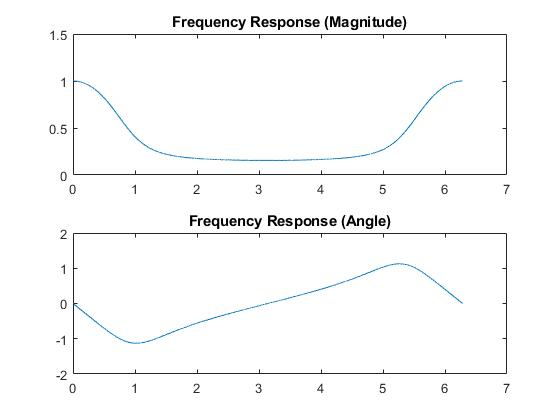
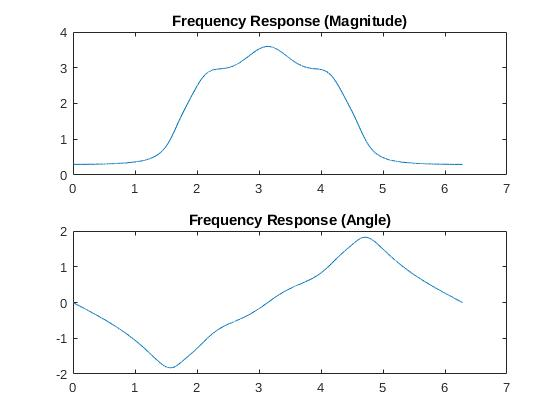
Started P10

diff --git a/p10/p10.m b/p10/p10.m
@@ -5,9 +5,9 @@
 clear
 N = 10000;
 Omega=linspace(0,2*pi,N+1);      %Set up vector of Omega
-z=exp(1i*Omega);                  %Define z on unit circle
+s=exp(1i*Omega);                  %Define z on unit circle
 T=0.001;
-H=(0.297046*z.*(z.^4-0.982666*z.^3+0.712641*z.^2-0.221309*z+0.0553271))./(z.^5-1.89353*z.^4+1.70189*z.^3-0.843832*z.^2+0.2302*z-0.0272007);
+H = (0.6042*s.^4+4.1572*s.^2+6.1591)./(s.^5+3.4630*s.^4+7.1704*s.^3+10.2787*s.^2+8.6926*s+6.159);
        
 figure (1)
 subplot(2,1,1)
@@ -19,30 +19,80 @@ plot(Omega,angle(H));
 title('Frequency Response (Angle)')
 
 %% Part C %%
-clear
-N = 10000;
-Omega=linspace(0,2*pi,N+1);      %Set up vector of Omega
-z=exp(1i*Omega);                  %Define z on unit circle
-T=0.001;
-w=((z.^5-1.89353*z.^4+1.70189*z.^3-0.843832*z.^2+0.2302*z-0.0272007)./(0.297046*z.*(z.^4-0.982666*z.^3+0.712641*z.^2-0.221309*z+0.0553271))).*(12*(z.^2).*(z-1)./(23*(z.^2)-16*z+5));
-
 figure(2)
-plot(real(w),imag(w));
-title('AB-3 Stability Region') 
+run=2;
+Nr=10;
+Ntheta=80;
 
-%% Part D %%
-clear
-N = 10000;
-Omega=linspace(0,2*pi,N+1); 
-z=exp(1i*Omega); 
+rho=linspace(1,Nr,Nr)/Nr;
+theta=linspace(0,(Ntheta-1)/Ntheta,Ntheta)*2*pi;
+    
+rhocw=rho;
+rhoccw=rho;
 
-for T = 0.1:0.1:1
-    w = T*((z.^5-1.89353*z.^4+1.70189*z.^3-0.843832*z.^2+0.2302*z-0.0272007)./(0.297046*z.*(z.^4-0.982666*z.^3+0.712641*z.^2-0.221309*z+0.0553271))).*(12*(z.^2).*(z-1)./(23*(z.^2)-16*z+5));
-    hold on
-    figure(3)
-    plot(real(w),imag(w))
-    legend('T=0.1','T=0.2','T=0.3','T=0.4','T=0.5','T=0.6','T=0.7','T=0.8','T=0.9','T=1.0')
-    title('\lambdaT Stability Regions for Different Sample Times')
-    hold off
+p=linspace(0,2*pi,1001);
+for m=1:Nr
+    r=rho(Nr-m+1);
+    z=r*exp(i*p);
+    w=(12*(z.^2).*(z-1)./(23*(z.^2)-16*z+5));
+    if(r>0.57)
+        rhoccw(m)=100;
+        subplot(121)
+        title('AB-3 Stability Region')
+        hold on
+        plot(real(w),imag(w))
+        hold off
+        axis([-1 1 -1.5 1.5])
+    else
+        rhocw(m)=0;
+        subplot(122)
+         title('r=1')
+        hold on
+        plot(real(w),imag(w))
+        hold off
+        axis([-1 1 -1 1])
+    end    
+    
 end
+if(run==3)
+    pause
+end
+
+
+r1=linspace(min(rhoccw),1,1001);
+r2=linspace(0,max(rhocw),1001);
+
+for m=1:length(theta)
+    z1=r1*exp(i*theta(m));
+    z2=r2*exp(i*theta(m));
+    w1=(12*(z1.^2).*(z1-1)./(23*(z1.^2)-16*z1+5));
+    w2=(12*(z2.^2).*(z2-1)./(23*(z2.^2)-16*z2+5));
+    
+    subplot(121)
+    hold on
+        plot(real(w1),imag(w1))
+    hold off
+    subplot(122)
+    hold on
+        plot(real(w2),imag(w2))
+    hold off
+    
+end
+
+% Add in part D poles
+subplot(121)
+hold on
+plot(-1.75552,0, 'x')
+plot(-0.71469,-1.26945, 'x')
+plot(-0.71469,1.26945, 'x')
+plot(-0.139044,-1.278189, 'x')
+plot(-0.139044,1.278189, 'x')
+hold off
+
+T_completely_stable = 0.01;
+T_relatively_stable = 0.3;
+T_relatively_unstable = 0.5;
+T_completely_unstalbe = 1.0;
+
+
 
